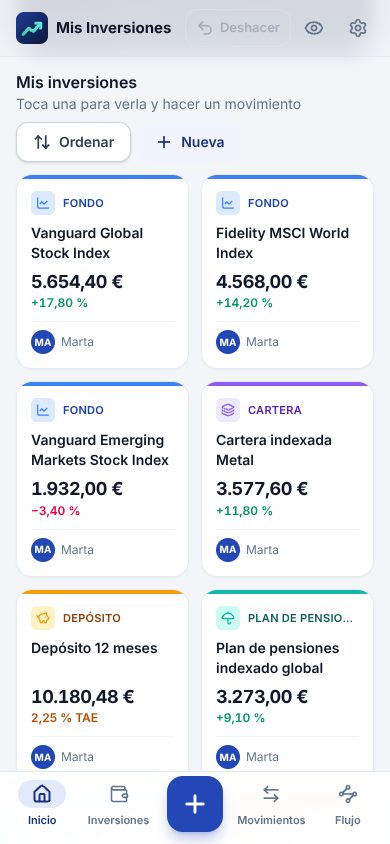
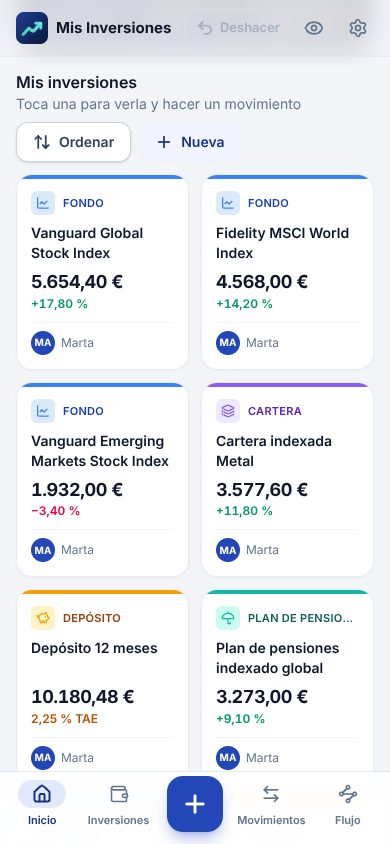
Fuera la línea «Recibe … cada mes de …» de la tarjeta del Fondo ahorro
- La tarjeta de quien recibe la transferencia mensual ya no la repite: se ve (con su «Editar»)
  solo en la tarjeta del titular principal, que es quien la envía.
- Capturas del README actualizadas.

diff --git a/src/pages/Dashboard.tsx b/src/pages/Dashboard.tsx
@@ -196,33 +196,21 @@ function OtrasMensuales({ tf, fin }: { tf: TitularFinance; fin: FinanceData }) {
   )
 }
 
-/** Lo que un titular recibe de otros cada mes (cuenta solo para él) y lo recibido en sus cuentas externas. */
-function CrossLines({ tf, fin }: { tf: TitularFinance; fin: FinanceData }) {
-  const { ds, owner } = fin
-  const name = (id: string) => fin.byTitular.get(id)?.titular.nombre ?? 'otro titular'
-  // Transferencias mensuales que recibe de otro titular.
-  const recibe = ds.programadas.filter((p) => owner(p.destino) === tf.titular.id && owner(p.origen) && owner(p.origen) !== tf.titular.id)
-  if (tf.recibidoEnExternas <= 0 && recibe.length === 0) return null
+/**
+ * Lo que otro titular le ha enviado a una cuenta externa suya (aún no cuenta para él: contará
+ * cuando lo invierta). Lo que recibe cada mes no se repite aquí: se ve, con su «Editar», en la
+ * tarjeta de quien lo envía.
+ */
+function CrossLines({ tf }: { tf: TitularFinance }) {
+  if (tf.recibidoEnExternas <= 0) return null
   return (
-    <ul className="mt-4 space-y-1.5 border-t border-white/10 pt-3 text-[13px]">
-      {recibe.map((p) => (
-        <li key={`p-${p.id}`} className="flex items-start gap-2">
-          <CalendarSync className="mt-0.5 size-4 shrink-0 text-fuchsia-300" />
-          <span className="min-w-0 text-white/80">
-            Recibe <Amount value={p.importe} className="font-semibold text-white" /> cada mes de {name(owner(p.origen)!)} (el día {diaDe(p)})
-          </span>
-        </li>
-      ))}
-      {tf.recibidoEnExternas > 0 && (
-        <li className="flex items-start gap-2">
-          <ArrowDownLeft className="mt-0.5 size-4 shrink-0 text-white/50" />
-          <span className="min-w-0 text-white/80">
-            Recibido en cuentas externas: <Amount value={tf.recibidoEnExternas} className="font-semibold text-white" />
-            <span className="text-white/50"> · contará cuando lo invierta</span>
-          </span>
-        </li>
-      )}
-    </ul>
+    <p className="mt-4 flex items-start gap-2 border-t border-white/10 pt-3 text-[13px]">
+      <ArrowDownLeft className="mt-0.5 size-4 shrink-0 text-white/50" />
+      <span className="min-w-0 text-white/80">
+        Recibido en cuentas externas: <Amount value={tf.recibidoEnExternas} className="font-semibold text-white" />
+        <span className="text-white/50"> · contará cuando lo invierta</span>
+      </span>
+    </p>
   )
 }
 
@@ -282,7 +270,7 @@ function TitularHero({ tf, fin }: { tf: TitularFinance; fin: FinanceData }) {
         )}
         <CuentasBox tf={tf} fin={fin} />
         <OtrasMensuales tf={tf} fin={fin} />
-        <CrossLines tf={tf} fin={fin} />
+        <CrossLines tf={tf} />
       </div>
     </section>
   )

diff --git a/README.md b/README.md
@@ -31,7 +31,6 @@ Sustituye al antiguo `Inversiones.xlsx` y mantiene sus mismos conceptos: titular
     separado: la cifra grande del principal es todo lo suyo, sin el «Fondo ahorro» (que tiene su propia tarjeta).
   - En la del principal está su cuenta **MyInvestor**, sus **transferencias mensuales** (cada una con su botón
     **«Editar»**, para cambiar el importe, el día o hasta cuándo, o eliminarla) y el botón **«Abrir MyInvestor»**.
-    El titular que recibe una transferencia mensual lo indica en su tarjeta («Recibe … cada mes de …»).
   - **Ventana de MyInvestor** (al abrirla): su **saldo real** (positivo o negativo), **Añadir dinero** (desde una
     cuenta externa), **Invertir**, **Programar transferencia mensual**, **Sacar dinero**, sus transferencias
     mensuales (con **Editar**) y el **dinero añadido desde bancos externos**, cada movimiento con sus botones
